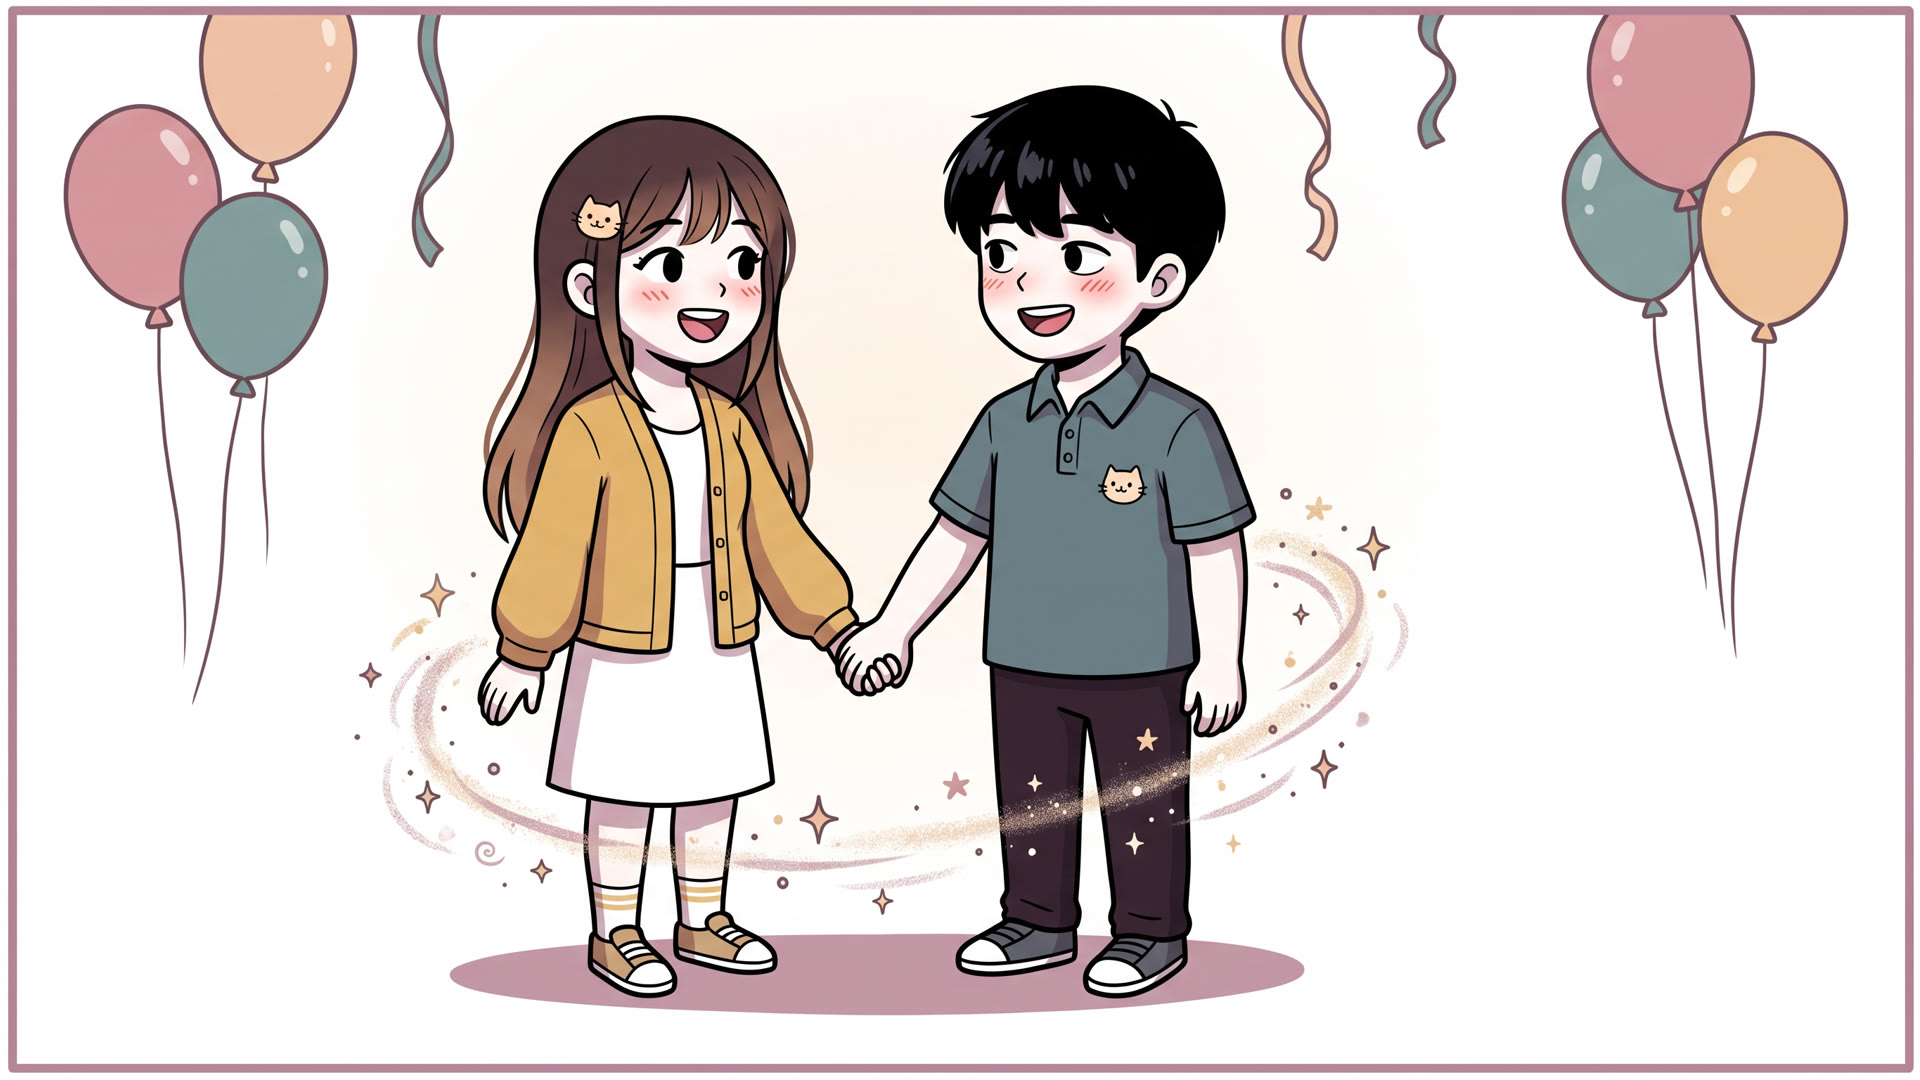
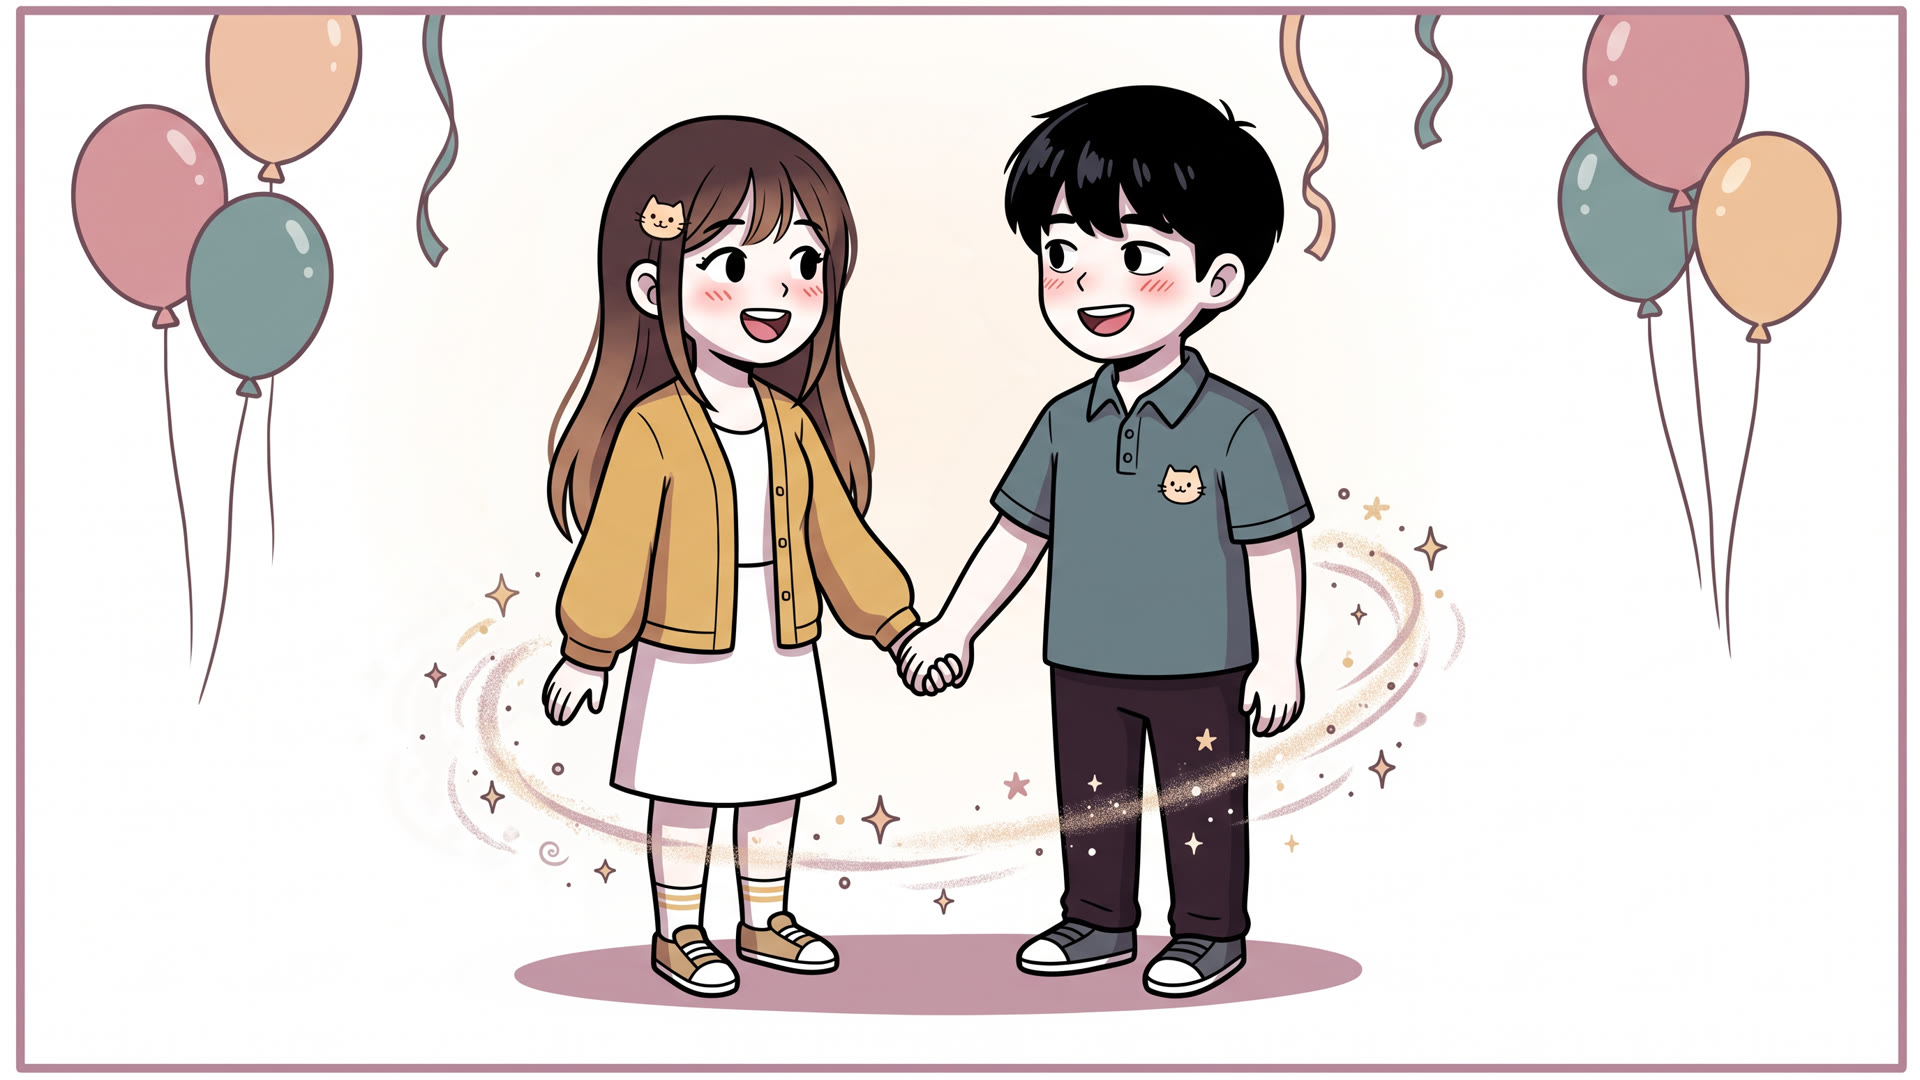
FC-03 start: couple centred to match the end frame (local shift, no credits); add tools/shift_subject.py
Claude-Session: https://claude.ai/code/session_01Wfk5ePJ22LN7xs1AbjaDY5

diff --git a/storyboard/tools/shift_subject.py b/storyboard/tools/shift_subject.py
@@ -1,0 +1,67 @@
+"""Move the characters in a frame without regenerating it (no Higgsfield credits).
+
+Builds a matte of everything that differs from the frame's smooth background (figures,
+sparkles, the floor shadow) inside a zone, paints the old spot with the estimated
+background, and pastes the subject back shifted by (dx, dy), optionally scaled about the
+shadow's centre. Zone rects avoid balloons and streamers that must not move.
+
+usage: python3 -I shift_subject.py IN.png OUT.png --dx 86 [--dy 0] [--scale 1.0]
+       [--zone x0,y0,x1,y1 ...]   (full-resolution pixels; several rects allowed)
+"""
+import argparse
+import numpy as np
+from PIL import Image
+from scipy import ndimage as ndi
+
+ap = argparse.ArgumentParser()
+ap.add_argument("inp"); ap.add_argument("out")
+ap.add_argument("--dx", type=float, default=0); ap.add_argument("--dy", type=float, default=0)
+ap.add_argument("--scale", type=float, default=1.0)
+ap.add_argument("--zone", action="append", default=[])
+ap.add_argument("--thresh", type=float, default=14)
+a = ap.parse_args()
+
+img = np.asarray(Image.open(a.inp).convert("RGB")).astype(np.float32)
+H, W, _ = img.shape
+zone = np.zeros((H, W), bool)
+for z in a.zone:
+    x0, y0, x1, y1 = map(int, z.split(","))
+    zone[y0:y1, x0:x1] = True
+
+# smooth background estimate: light pixels connected to the frame edge, blurred and normalised
+k = 4
+sm = np.asarray(Image.fromarray(img.astype(np.uint8)).resize((W // k, H // k), Image.BILINEAR)).astype(np.float32)
+light = sm.mean(2) > 205
+lab, n = ndi.label(light)  # the background is the biggest light region; figure insides are cut off by outlines
+big = np.bincount(lab.ravel())[1:].argmax() + 1
+valid = ndi.binary_erosion(lab == big, iterations=2).astype(np.float32)
+sig = 30
+num = np.stack([ndi.gaussian_filter(sm[..., c] * valid, sig) for c in range(3)], -1)
+den = ndi.gaussian_filter(valid, sig)[..., None] + 1e-6
+bg_sm = num / den
+bg = np.asarray(Image.fromarray(np.clip(bg_sm, 0, 255).astype(np.uint8)).resize((W, H), Image.BICUBIC)).astype(np.float32)
+
+# subject matte inside the zone
+diff = np.abs(img - bg).max(2)
+m = (diff > a.thresh) & zone
+m = ndi.binary_closing(m, iterations=4)
+m = ndi.binary_fill_holes(m)
+m = ndi.binary_opening(m, iterations=1) | (diff > 60) & zone  # drop speckle, keep real lines
+m = ndi.binary_dilation(m, iterations=5) & zone
+alpha = ndi.gaussian_filter(m.astype(np.float32), 2.0)[..., None]
+
+# 1) erase the subject from its old spot
+out = img * (1 - alpha) + bg * alpha
+
+# 2) paste it back moved (and scaled about the matte's bottom centre)
+ys, xs = np.where(m)
+cx, cy = (xs.min() + xs.max()) / 2, ys.max()
+s = a.scale
+yy, xx = np.mgrid[0:H, 0:W].astype(np.float32)
+srcx = (xx - a.dx - cx) / s + cx
+srcy = (yy - a.dy - cy) / s + cy
+moved = np.stack([ndi.map_coordinates(img[..., c], [srcy, srcx], order=1, mode="nearest") for c in range(3)], -1)
+amov = ndi.map_coordinates(alpha[..., 0], [srcy, srcx], order=1, mode="constant", cval=0)[..., None]
+out = out * (1 - amov) + moved * amov
+Image.fromarray(np.clip(out, 0, 255).astype(np.uint8)).save(a.out)
+print(f"{W}x{H} matte {m.mean()*100:.1f}% of frame, bottom-centre ({cx:.0f},{cy:.0f}), moved dx={a.dx} dy={a.dy} scale={s}")
